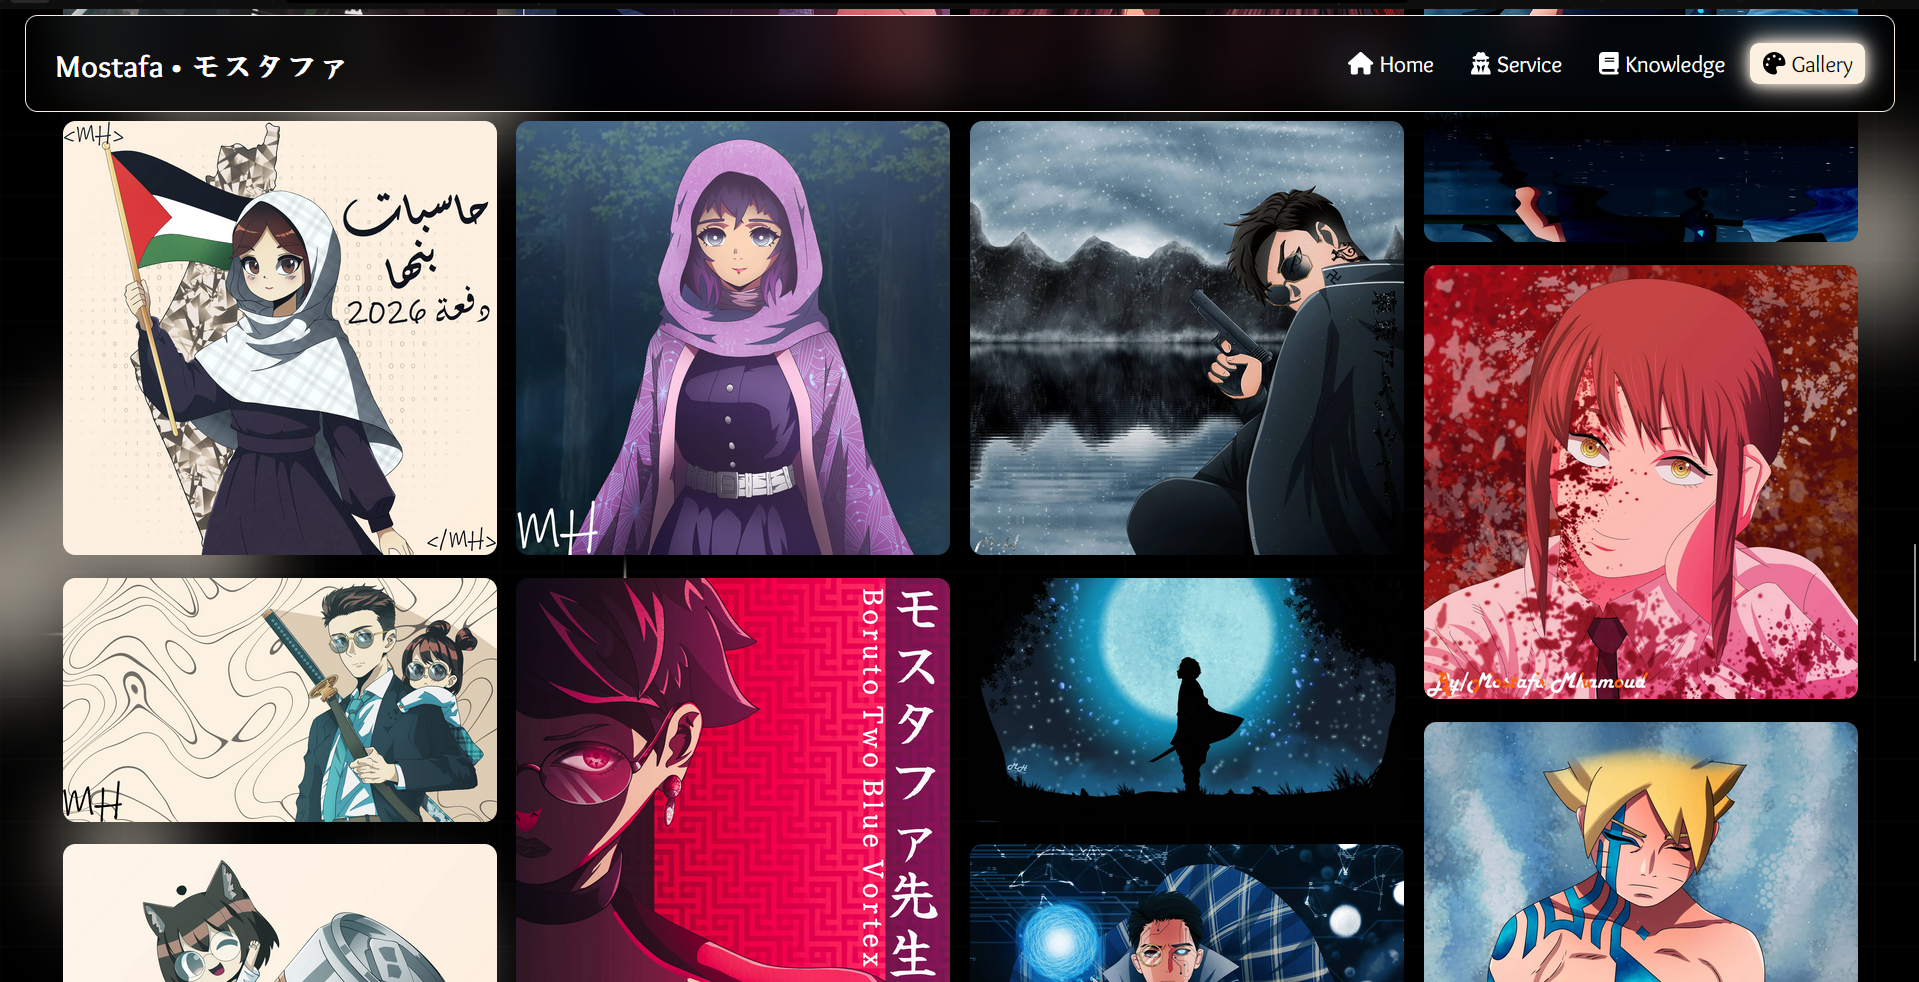
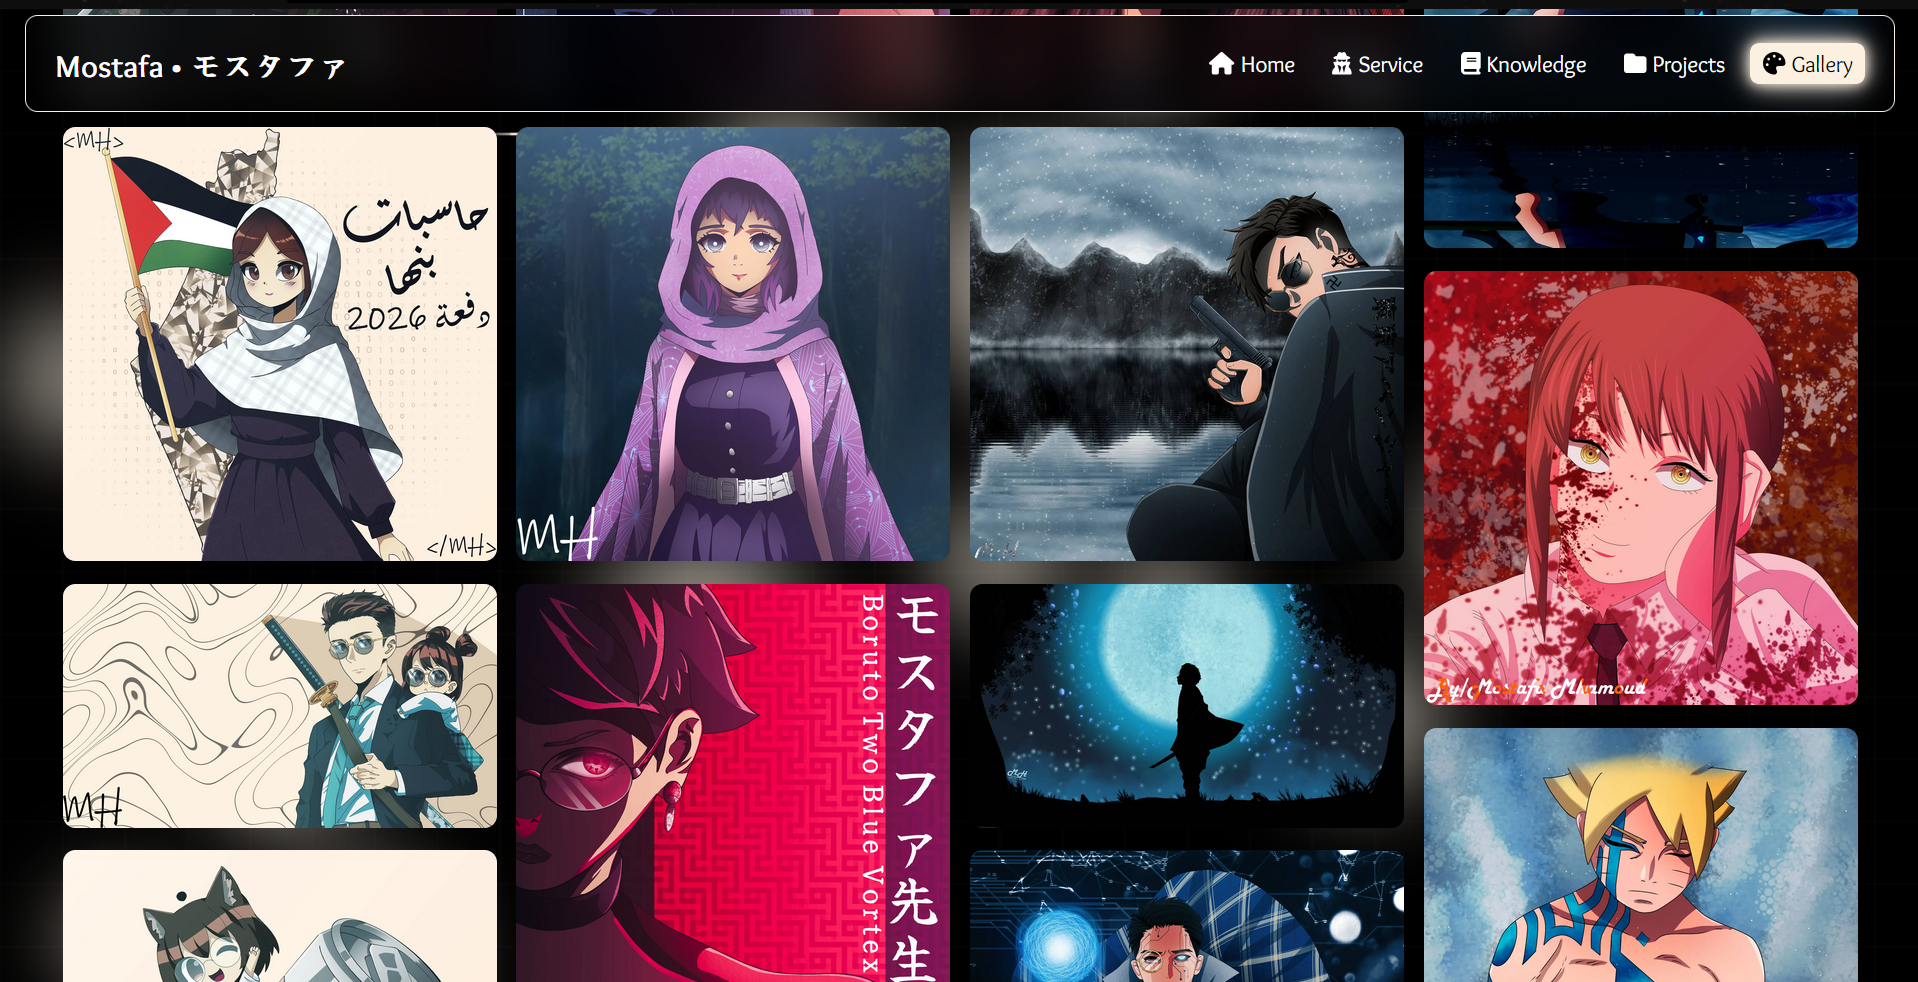
Design a New Responsive Header Component. Add New Artwork to My Gallery.

diff --git a/app/com/header/sensei-header.tsx b/app/com/header/sensei-header.tsx
@@ -6,16 +6,30 @@ import {
     faHome,
     faUserSecret,
     faBook,
+    faFolder,
     faPalette
 } from '@fortawesome/free-solid-svg-icons';
 import { IconProp } from '@fortawesome/fontawesome-svg-core';
 
+
+//**
+// @Author Mostafa Sensei106
+// @Description A responsive header component with a menu that highlights the active section of the page.
+//**
+
 /**
- * The main header component with a responsive menu and enhanced animations.
+ * The main header component with a responsive menu.
  * @returns The JSX Element for the header.
  */
 const SenseiHeader = (): JSX.Element => {
+    /**
+     * The state of the menu, whether it is open or closed.
+     */
     const [isMenuOpen, setIsMenuOpen] = useState<boolean>(false);
+
+    /**
+     * The state of the active section, which is the section that is currently in view.
+     */
     const [activeSection, setActiveSection] = useState<string>('Home');
 
     const toggleMenu = (): void => {
@@ -27,8 +41,8 @@ const SenseiHeader = (): JSX.Element => {
             'Home',
             'Service',
             'Knowledge',
-            'Gallery'
-        ];
+            'Projects',
+            'Gallery'];
         const current: string | undefined = sections.find((section) => {
             const element = document.getElementById(section);
             if (element) {
@@ -68,10 +82,12 @@ const SenseiHeader = (): JSX.Element => {
         return () => window.removeEventListener('resize', handleResize);
     }, [isMenuOpen]);
 
+    // Mapping section names to their respective FontAwesome icons
     const sectionIcons: Record<string, IconProp> = {
         Home: faHome,
         Service: faUserSecret,
         Knowledge: faBook,
+        Projects: faFolder,
         Gallery: faPalette,
     };
 
@@ -93,10 +109,7 @@ const SenseiHeader = (): JSX.Element => {
                 <span></span>
                 <span></span>
             </div>
-            <nav
-                className={`${styles.navbar} ${isMenuOpen ? styles.active : ''}`}
-                aria-hidden={!isMenuOpen}
-            >
+            <nav className={`${styles.navbar} ${isMenuOpen ? styles.active : ''}`}>
                 {Object.entries(sectionIcons).map(([section, icon]) => (
                     <a
                         key={section}

diff --git a/app/page.tsx b/app/page.tsx
@@ -7,6 +7,7 @@ import SenseiArt from "./com/art_gallery/sensei-art";
 import SenseiContact from "@/app/com/contact_me/sensei-contact";
 import Senseiloader from "@/app/com/loader/sensei_loader";
 import AnimatedBackground from "@/app/com/animated_background/animated_background";
+import SenseiProjects from "./com/services/sensei-projects";
 
 // Main component
 // @returns {JSX.Element}
@@ -22,7 +23,7 @@ function Main() {
             <SenseiHome />
             <SenseiServicesProjects />
             <SenseiEducation />
-            {/*<SenseiProjects />*/}
+            <SenseiProjects />
             <SenseiArt />
             <SenseiContact />
         </>
